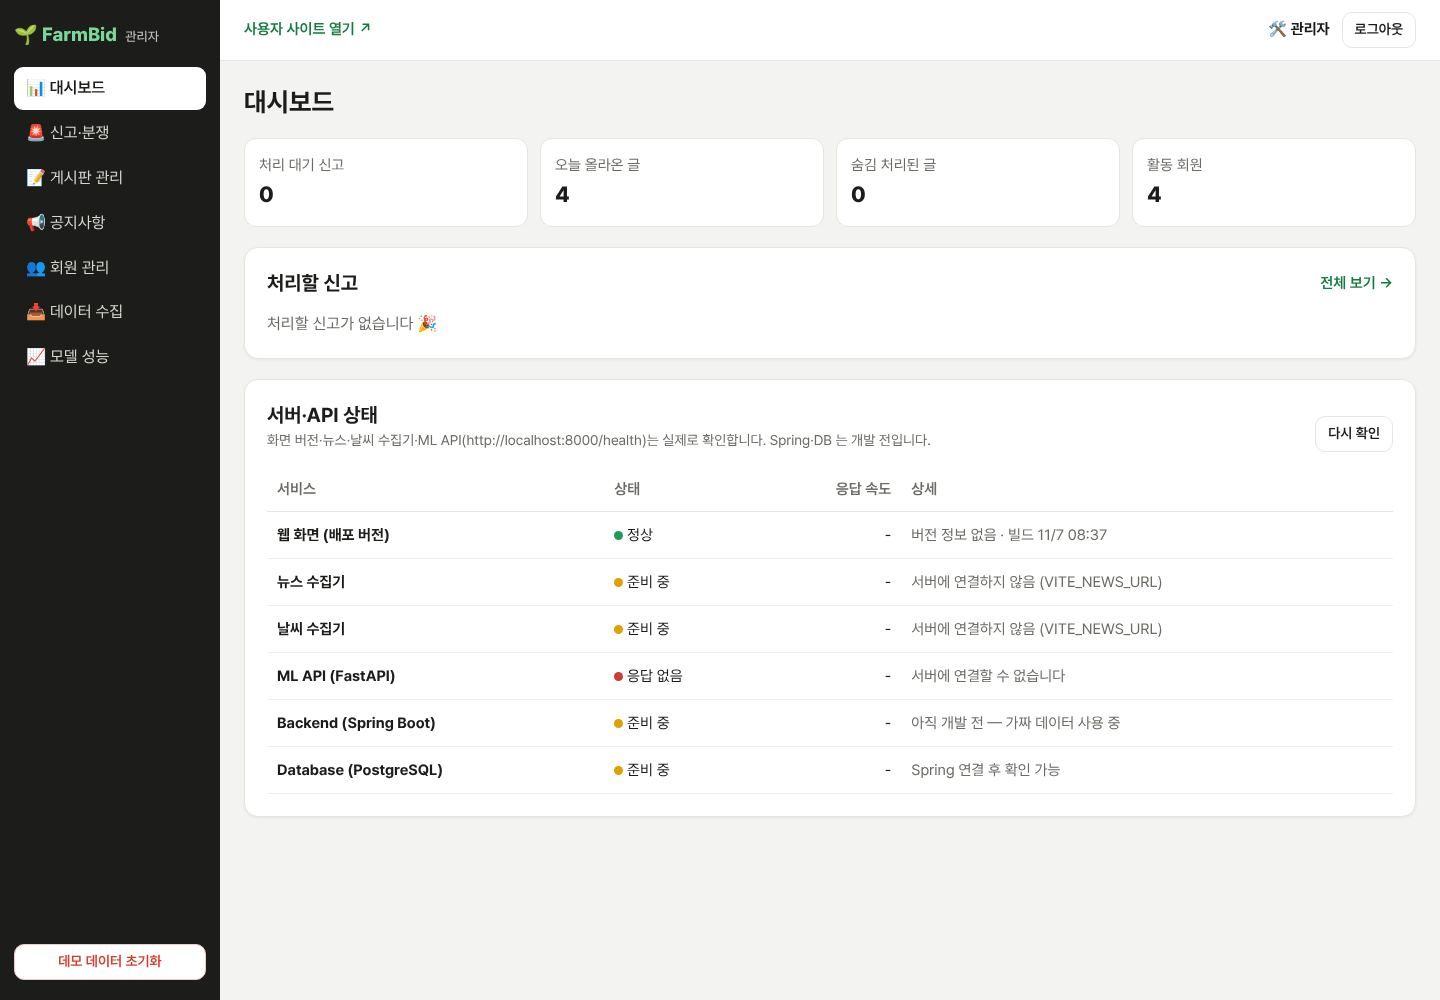
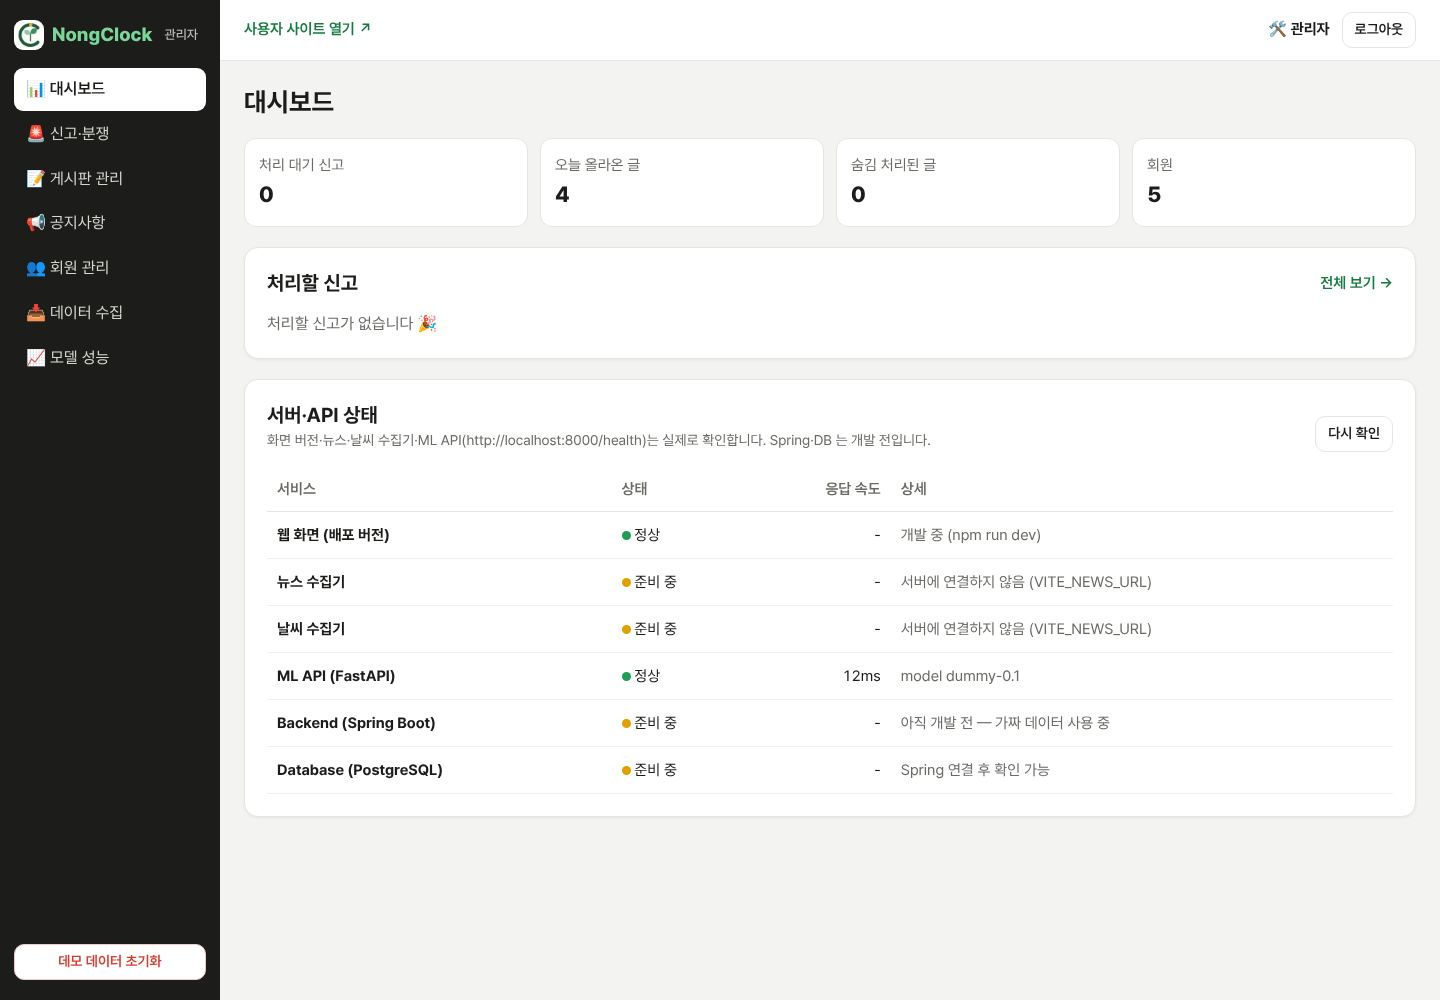
feat(frontend): 사이트 이름을 NongClock 으로 통일 · 새 로고(시안 20번 C 링 새싹)
- 헤더 로고를 팀 시안 20번 이미지로 (public/logo-nongclock.png, 배경 투명)
- 브라우저 탭 아이콘 추가 (public/logo-icon.png, 사용자·관리자 사이트)
- 탭 제목 · 바닥글 · 서비스 소개 · 뉴스 · 검색 · 게시판 예시 글 · 관리자 로고의
  "팜비드 / FarmBid / FARMBID" → NongClock, 문의 메일 예시 contact@nongclock.kr
- 데모 계정(@farmbid.kr) · 저장소 키 · 서버 폴더 이름은 그대로 (바꾸면 로그인·배포가 깨짐)
- UI 설계서 변경 이력 · 캡처 교체

Claude-Session: https://claude.ai/code/session_01A5Bz2YFgwDEj3wEsMnATng

diff --git a/frontend/src/pages/About.jsx b/frontend/src/pages/About.jsx
@@ -19,7 +19,7 @@ const TEAM = [
   { name: "이름", role: "데이터 수집 · DB" },
   { name: "이름", role: "예측 모델링" },
 ];
-const CONTACT = { email: "contact@farmbid.kr", phone: "02-000-0000", hours: "평일 10:00~18:00" };
+const CONTACT = { email: "contact@nongclock.kr", phone: "02-000-0000", hours: "평일 10:00~18:00" };
 const PROJECT = AUCTION_ENABLED ? "농산물 가격 예측·경매 플랫폼 팀 프로젝트 · 2026" : "농산물 가격 예측 플랫폼 팀 프로젝트 · 2026";
 
 const FEATURES = [
@@ -38,7 +38,7 @@ const BASIS = [
 ];
 const GRADE_ROWS = [
   ["특", "도매시장 경매에서 가장 좋은 품질로 매긴 등급", "시세·수급에서 골라 볼 수 있어요"],
-  ["상", "거래가 꾸준한 좋은 품질 등급 · 팜비드 시세의 기본 기준", "기본 시세 (AI 예측은 등급을 나누지 않은 경매 단가)"],
+  ["상", "거래가 꾸준한 좋은 품질 등급 · NongClock 시세의 기본 기준", "기본 시세 (AI 예측은 등급을 나누지 않은 경매 단가)"],
   ["중", "보통 품질 등급", "시세·수급에서 골라 볼 수 있어요"],
   ["하", "품질이 낮은 등급 · 거래가 없는 날이 많아요", "시세·수급에서 골라 볼 수 있어요"],
   ["평균", "모든 등급을 거래량만큼 반영한 가격", "시세·수급에서 골라 볼 수 있어요"],
@@ -56,12 +56,12 @@ export default function About() {
     <div className="page ab">
       <section className="card ab-hero" id="items">
         <div>
-          <div className="ab-eyebrow">팜비드 FARMBID</div>
+          <div className="ab-eyebrow">농클락 NONGCLOCK</div>
           <h1>오늘 시세가 아니라,<br /><em>다음 주 가격</em>을 보고 거래하세요.</h1>
           <p>
             {AUCTION_ENABLED
-              ? "팜비드는 AI 가격 예측과 온라인 경매를 하나로 묶은 농산물 거래 서비스예요. 날씨·명절·과거 시세를 학습한 모델이 앞으로의 도매가를 예측하고, 농가와 구매자는 그 예측을 참고해 경매로 직접 거래합니다."
-              : "팜비드는 AI 가격 예측으로 농가의 판단을 돕는 서비스예요. 날씨·명절·과거 시세를 학습한 모델이 앞으로의 도매가를 예측하고, 그 예측으로 언제 무엇을 심으면 좋을지까지 알려드려요."}
+              ? "NongClock은 AI 가격 예측과 온라인 경매를 하나로 묶은 농산물 거래 서비스예요. 날씨·명절·과거 시세를 학습한 모델이 앞으로의 도매가를 예측하고, 농가와 구매자는 그 예측을 참고해 경매로 직접 거래합니다."
+              : "NongClock은 AI 가격 예측으로 농가의 판단을 돕는 서비스예요. 날씨·명절·과거 시세를 학습한 모델이 앞으로의 도매가를 예측하고, 그 예측으로 언제 무엇을 심으면 좋을지까지 알려드려요."}
           </p>
           <div className="ab-btns">
             <Link className="btn primary" to="/ai">AI 가격 예측 보기</Link>

diff --git a/frontend/src/pages/Home.jsx b/frontend/src/pages/Home.jsx
@@ -308,7 +308,7 @@ const INTRO = [
   ["⛈", "이상기후 주의 구간", [["주의 구간이란", "/about#how"], ["지역별 날씨", "/#today"], ["가격 영향", "/about#how"]]],
   ["🔔", "관심 품목 알림", [["관심 품목 담기", "/mypage"], ["시세 변동 알림", "/mypage"], ["이상기후 알림", "/mypage"], ["알림 설정", "/mypage"]]],
   ["❓", "자주 묻는 질문", [["등급 기준", "/about#grades"], ["가격 기준", "/about#price"], ["예측 정확도", "/about#how"], ["자료 출처", "/about#how"]]],
-  ["✉", "문의하기", [["contact@farmbid.kr", "/about#contact"], ["02-000-0000", "/about#contact"], ["평일 10:00~18:00", "/about#contact"]]],
+  ["✉", "문의하기", [["contact@nongclock.kr", "/about#contact"], ["02-000-0000", "/about#contact"], ["평일 10:00~18:00", "/about#contact"]]],
 ];
 
 export default function Home() {
@@ -336,7 +336,7 @@ export default function Home() {
       </section>
       <section className="hv-intro" id="intro">
         <div className="hv-wrap">
-          <div className="hv-sec-head"><h2>서비스 소개</h2><span>팜비드는 AI 가격 예측으로 농가의 판단을 돕는 서비스예요. 예측은 참고용이고, 실제 가격은 수급·유통 상황에 따라 달라질 수 있어요.</span></div>
+          <div className="hv-sec-head"><h2>서비스 소개</h2><span>NongClock은 AI 가격 예측으로 농가의 판단을 돕는 서비스예요. 예측은 참고용이고, 실제 가격은 수급·유통 상황에 따라 달라질 수 있어요.</span></div>
           <div className="hv-ig">
             {INTRO.map(([e, t, ls]) => (
               <div key={t} className="hv-ic-card">

diff --git a/frontend/src/mocks/board.js b/frontend/src/mocks/board.js
@@ -11,7 +11,7 @@ const SEED = [
   ["질문", "경매 최소 입찰 단위가 왜 1,000원인가요?", "100원 단위로 올리면 안 되나요? 소액 상품은 1,000원도 커서요.", "buyer1", 2, 47],
   ["거래후기", "논산 딸기 낙찰 받았습니다 👍", "포장도 꼼꼼하고 신선했어요. 다음에도 이 농가 경매 참여하려고요.", "buyer2", 5, 88],
   ["자유", "올해 감자 작황 어떠세요?", "평창은 비가 잦아서 걱정이었는데 생각보다 괜찮네요.", "seller1", 9, 61],
-  ["정보", "KAMIS 시세랑 팜비드 시세 차이 정리", "팜비드 시세는 가락시장 도매가 1kg 기준이라 KAMIS 소매가와는 차이가 있어요. 비교하실 때 단위 꼭 확인하세요.", "seller2", 20, 210],
+  ["정보", "KAMIS 시세랑 NongClock 시세 차이 정리", "NongClock 시세는 가락시장 도매가 1kg 기준이라 KAMIS 소매가와는 차이가 있어요. 비교하실 때 단위 꼭 확인하세요.", "seller2", 20, 210],
   ["질문", "판매자 인증은 얼마나 걸리나요?", "농가 회원으로 가입했는데 경매 등록이 승인 대기라고 나와요.", "buyer1", 26, 33],
   ["자유", "양파 저장 꿀팁 공유합니다", "망에 담아서 통풍 잘 되는 그늘에 걸어 두면 오래가요. 냉장 보관은 오히려 싹이 잘 나요.", "seller2", 30, 154],
   ["거래후기", "해남 절임배추 김장용으로 샀어요", "간이 딱 맞게 돼 있어서 편했습니다. 배송도 하루 만에 왔어요.", "buyer1", 48, 97],

diff --git a/frontend/src/admin/AdminApp.jsx b/frontend/src/admin/AdminApp.jsx
@@ -46,7 +46,7 @@ function AdminLogin() {
   return (
     <div className="admin-login">
       <form className="card" onSubmit={submit}>
-        <div className="admin-brand">🌱 FarmBid <small>관리자</small></div>
+        <div className="admin-brand"><img src="/logo-icon.png" alt="" /> NongClock <small>관리자</small></div>
         {user && (
           <div className="banner small">
             ⚠
@@ -66,7 +66,7 @@ function AdminLogin() {
         </div>
         {error && <span className="hint error">{error}</span>}
         <button className="btn primary block">로그인</button>
-        <a className="link small" href={`${SITE_URL}/`}>← 팜비드 사용자 사이트로</a>
+        <a className="link small" href={`${SITE_URL}/`}>← NongClock 사용자 사이트로</a>
       </form>
     </div>
   );
@@ -78,7 +78,7 @@ function AdminLayout() {
   return (
     <div className="admin-shell">
       <aside className={`admin-side ${menuOpen ? "open" : ""}`}>
-        <div className="admin-brand">🌱 FarmBid <small>관리자</small></div>
+        <div className="admin-brand"><img src="/logo-icon.png" alt="" /> NongClock <small>관리자</small></div>
         <nav onClick={() => setMenuOpen(false)}>
           {MENU.map(([to, label]) => (
             <NavLink key={to} to={`/${to}`} end={to === ""}>{label}</NavLink>

diff --git a/frontend/src/pages/Search.jsx b/frontend/src/pages/Search.jsx
@@ -177,7 +177,7 @@ function Empty({ q, suggestion }) {
       {suggestion && (
         <p>혹시 <Link className="link" to={`/search?q=${encodeURIComponent(suggestion)}`}>'{suggestion}'</Link>을(를) 찾으셨나요?</p>
       )}
-      <p className="muted">팜비드에서 다루는 품목은 {items.data?.length ?? 16}가지예요</p>
+      <p className="muted">NongClock에서 다루는 품목은 {items.data?.length ?? 16}가지예요</p>
       <div className="pills" style={{ justifyContent: "center" }}>
         {(items.data ?? []).map((i) => (
           <Link key={i.code} className="pill sm" to={`/search?q=${encodeURIComponent(i.name)}`}>
@@ -229,7 +229,7 @@ function Results({ d, tab, setTab }) {
               </div>
             </section>
           )}
-          {tab === "item" && !item && !d.crops.length && <div className="state">'{q}'은(는) 팜비드 품목이 아니에요. 품목 이름(예: 사과, 배추)으로 검색하면 시세를 보여드려요.</div>}
+          {tab === "item" && !item && !d.crops.length && <div className="state">'{q}'은(는) NongClock 품목이 아니에요. 품목 이름(예: 사과, 배추)으로 검색하면 시세를 보여드려요.</div>}
 
           {(all ? d.auctions.length > 0 : tab === "auctions") && (
             <section>

diff --git a/frontend/src/utils/itemMatch.js b/frontend/src/utils/itemMatch.js
@@ -1,4 +1,4 @@
-// 글(검색어·뉴스 제목)에서 팜비드 품목 찾기. 통합 검색의 품목 판단과 뉴스 품목 태그가 같이 쓴다.
+// 글(검색어·뉴스 제목)에서 NongClock 품목 찾기. 통합 검색의 품목 판단과 뉴스 품목 태그가 같이 쓴다.
 // 단어 목록은 shared/news_rules.json 에 있고, 뉴스 수집기(collector/news/rules.py)도 같은 파일·같은 방식으로 찾는다.
 // 찾는 방식을 바꾸면 rules.py 도 똑같이 바꿔야 한다.
 import RULES from "../../../shared/news_rules.json";
@@ -13,7 +13,7 @@ const NOT_ITEM = RULES.not_item;
 const MISREAD = Object.fromEntries(Object.entries(RULES.misread).map(([code, re]) => [code, new RegExp(re)]));
 
 /**
- * 팜비드 16개 품목 밖이지만 기사에 자주 나오는 작물. 뉴스 태그로만 보여 준다 (시세·예측 화면이 없으므로 링크 없음).
+ * NongClock 16개 품목 밖이지만 기사에 자주 나오는 작물. 뉴스 태그로만 보여 준다 (시세·예측 화면이 없으므로 링크 없음).
  * 품목이 늘어나면 규칙 파일에서 items 로 옮기면 된다.
  */
 export const OTHER_CROPS = RULES.other_crops;

diff --git a/frontend/src/theme.css b/frontend/src/theme.css
@@ -1,5 +1,5 @@
 /* ─────────────────────────────────────────────────────────────
-   팜비드 새 디자인 (v17, 2026-11-11) — 사용자 사이트만 (main.jsx 에서 styles.css 다음에 읽음)
+   NongClock 새 디자인 (v17, 2026-11-11) — 사용자 사이트만 (main.jsx 에서 styles.css 다음에 읽음)
    관리자 사이트(src/admin)는 이 파일을 읽지 않아 예전 모양 그대로.
    - 배경: 밝은 밭 사진 (public/img/field.jpg). 홈 첫 화면은 또렷하게, 나머지 화면은 흐리게
    - 카드: 외곽선 없이 흰 반투명(뒤가 흐리게 비침)
@@ -343,3 +343,7 @@ select.input.mk-days { font-size: 16px; }
 }
 /* 시장별 예측 목록: 막대와 숫자 사이 여백 */
 .pv-slide { padding-right: 12px; }
+
+/* 로고 이미지 (시안 20번 C 링 새싹) */
+.logo img { display: block; height: 40px; width: auto; }
+@media (max-width: 640px) { .logo img { height: 32px; } }

diff --git a/frontend/src/components/Layout.jsx b/frontend/src/components/Layout.jsx
@@ -169,7 +169,7 @@ function Header() {
     <header className={`header ${solid || menu ? "solid" : ""}`}>
       <div className="container header-inner">
         <Link to="/" className="logo">
-          🌱 FARMBID
+          <img src="/logo-nongclock.png" alt="NongClock" />
         </Link>
         <HeaderSearch />
         <nav className="top-nav" aria-label="주 메뉴">
@@ -263,7 +263,7 @@ export default function Layout() {
       )}
       {DEV_BADGE && <div className="live-badge" title="frontend/.env 의 VITE_DATA_SOURCE · VITE_NEWS_URL. 나머지는 가짜 데이터">{DEV_BADGE}</div>}
       <footer className={`footer ${home ? "light" : ""}`}>
-        <span>© 팜비드 · 공영도매시장 경매 · KAMIS · 기상청 데이터</span>
+        <span>© NongClock · 공영도매시장 경매 · KAMIS · 기상청 데이터</span>
         <span className="r">
           <Link to="/about">서비스 소개</Link>
           <Link to="/about#contact">문의</Link>

diff --git a/frontend/src/admin/admin.css b/frontend/src/admin/admin.css
@@ -16,7 +16,8 @@
 body { background: #f3f4f1; }
 .admin-shell { display: grid; grid-template-columns: 220px minmax(0, 1fr); min-height: 100vh; }
 .admin-side { background: #1c1c1a; color: #fff; padding: 20px 14px; display: flex; flex-direction: column; gap: 18px; position: sticky; top: 0; height: 100vh; }
-.admin-brand { font-weight: 800; font-size: 19px; color: #7bd69a; }
+.admin-brand { display: flex; align-items: center; gap: 8px; font-weight: 800; font-size: 19px; color: #7bd69a; }
+.admin-brand img { width: 30px; height: 30px; padding: 3px; border-radius: 9px; background: #fff; }
 .admin-brand small { color: #bbb; font-weight: 500; font-size: 13px; margin-left: 4px; }
 .admin-side nav { display: grid; gap: 2px; flex: 1; align-content: start; }
 .admin-side nav a { padding: 9px 12px; border-radius: 9px; color: #d6d5d0; }

diff --git a/frontend/src/components/NewsParts.jsx b/frontend/src/components/NewsParts.jsx
@@ -34,7 +34,7 @@ export function NewsArticle({ n, q, links = true }) {
       <div className="mt">
         <NewsCat category={n.category} />
         {n.item_tags.map((t) => <ItemTag key={t.item} tag={t} />)}
-        {n.crop_tags?.map((t) => <span key={t.crop} className="news-item-tag crop" title="팜비드 시세·예측 품목은 아니에요">{t.emoji} {t.name}</span>)}
+        {n.crop_tags?.map((t) => <span key={t.crop} className="news-item-tag crop" title="NongClock 시세·예측 품목은 아니에요">{t.emoji} {t.name}</span>)}
         <span>{n.press} · {timeAgo(n.published_at)}</span>
         {links && first && (
           <Link className="go" to={n.category === "가격·수급" ? `/market?item=${first.item}` : `/ai?item=${first.item}`}>

diff --git a/frontend/src/pages/News.jsx b/frontend/src/pages/News.jsx
@@ -119,7 +119,7 @@ export default function News() {
       <div className="page-head news-head">
         <div>
           <h1>농업 뉴스</h1>
-          <p>팜비드가 다루는 품목의 가격·기상·정책 기사를 모았어요. 기사 본문은 각 언론사 사이트에서 볼 수 있어요.</p>
+          <p>NongClock이 다루는 품목의 가격·기상·정책 기사를 모았어요. 기사 본문은 각 언론사 사이트에서 볼 수 있어요.</p>
         </div>
         {news.data && <NewsUpdated at={news.data.updated_at} />}
       </div>

diff --git a/frontend/index.html b/frontend/index.html
@@ -3,7 +3,8 @@
   <head>
     <meta charset="UTF-8" />
     <meta name="viewport" content="width=device-width, initial-scale=1.0" />
-    <title>팜비드 FarmBid — 농산물 시세·AI 예측·경매</title>
+    <link rel="icon" type="image/png" href="/logo-icon.png" />
+    <title>NongClock — 농산물 시세·AI 가격 예측</title>
     <link rel="preconnect" href="https://cdn.jsdelivr.net" />
     <link rel="stylesheet" href="https://cdn.jsdelivr.net/gh/orioncactus/pretendard@v1.3.9/dist/web/static/pretendard.min.css" />
   </head>
